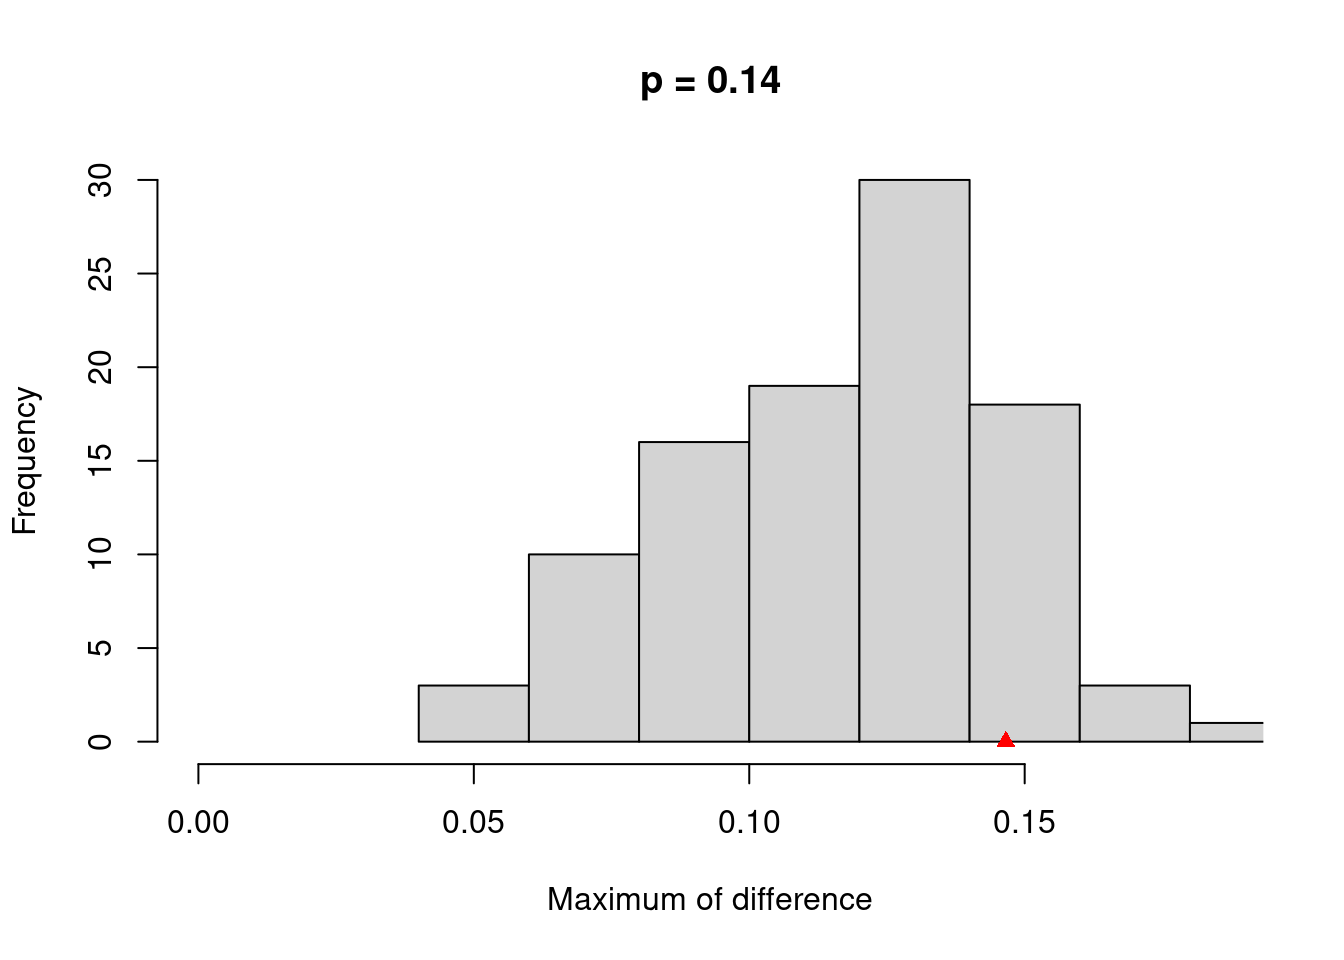
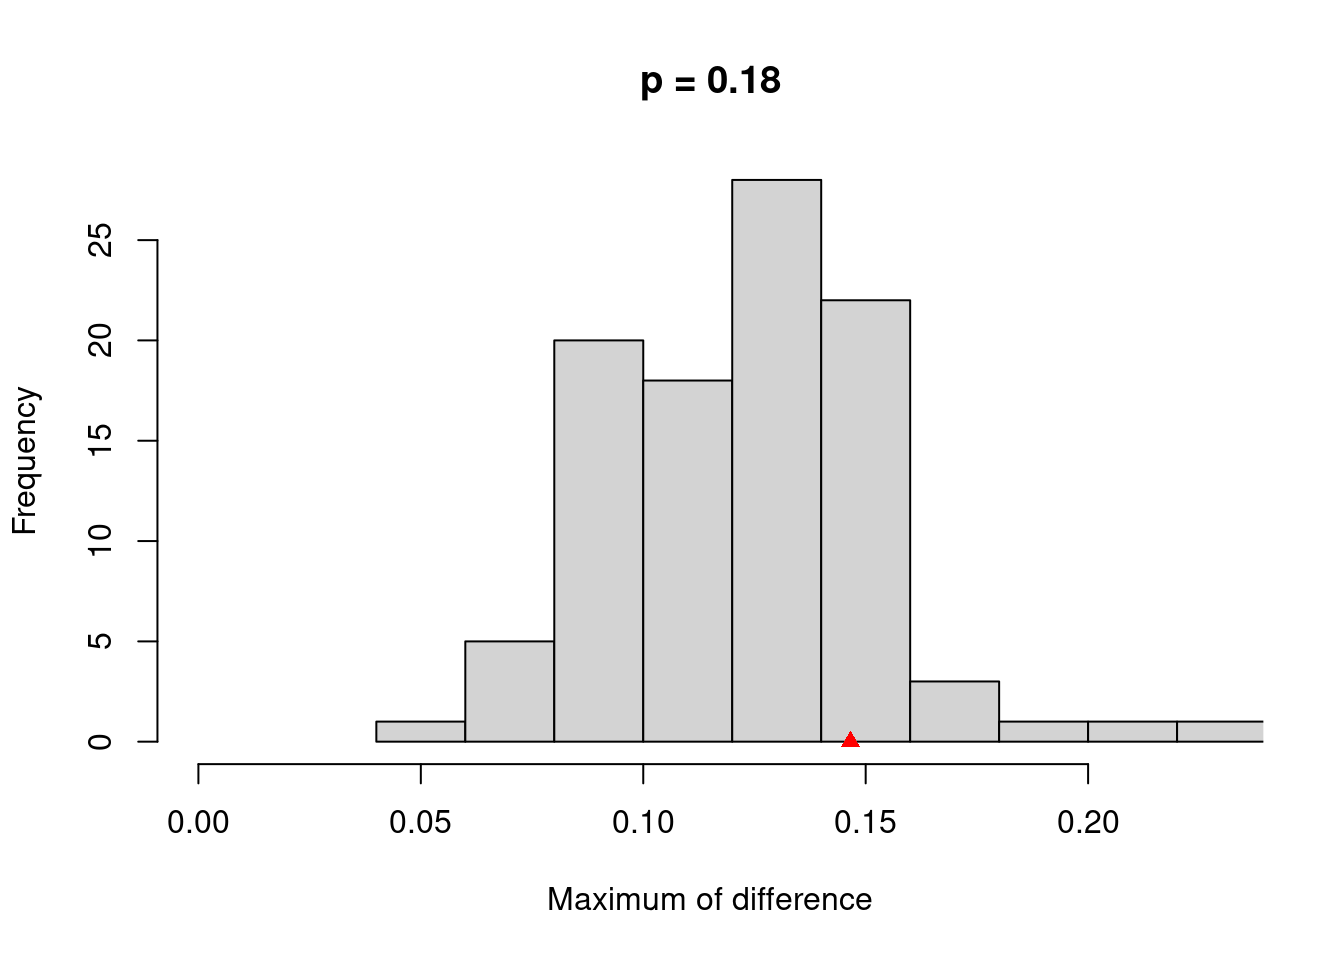
update

diff --git a/docs/how-to-psychological-network1.html b/docs/how-to-psychological-network1.html
@@ -553,16 +553,16 @@ data_gad &lt;- data %&gt;%
 <pre><code>## # A tibble: 42 × 17
 ##    type  id    node1 node2  sample   mean      sd CIlower CIupper   q2.5   q97.5
 ##    &lt;chr&gt; &lt;chr&gt; &lt;chr&gt; &lt;chr&gt;   &lt;dbl&gt;  &lt;dbl&gt;   &lt;dbl&gt;   &lt;dbl&gt;   &lt;dbl&gt;  &lt;dbl&gt;   &lt;dbl&gt;
-##  1 betw… gad7a gad7a &quot;&quot;     2      1.52   1.18    -0.358   4.36   0       4     
-##  2 betw… gad7b gad7b &quot;&quot;     2      3.10   1.86    -1.73    5.73   2       8     
-##  3 betw… gad7c gad7c &quot;&quot;     0      1.72   2.45    -4.90    4.90   0       8     
-##  4 betw… gad7d gad7d &quot;&quot;    12      9.39   2.19     7.63   16.4    4      12     
-##  5 betw… gad7e gad7e &quot;&quot;     0      0.978  1.89    -3.77    3.77   0       6     
-##  6 betw… gad7f gad7f &quot;&quot;     0      0.393  0.828   -1.66    1.66   0       2     
-##  7 betw… gad7g gad7g &quot;&quot;     0      1.12   1.60    -3.19    3.19   0       4     
-##  8 clos… gad7a gad7a &quot;&quot;     0.0252 0.0256 0.00149  0.0222  0.0282 0.0226  0.0284
-##  9 clos… gad7b gad7b &quot;&quot;     0.0260 0.0262 0.00165  0.0227  0.0293 0.0231  0.0295
-## 10 clos… gad7c gad7c &quot;&quot;     0.0252 0.0256 0.00175  0.0217  0.0287 0.0222  0.0289
+##  1 betw… gad7a gad7a &quot;&quot;     2      1.53   1.19    -0.374   4.37   0       4     
+##  2 betw… gad7b gad7b &quot;&quot;     2      3.13   1.89    -1.79    5.79   2       8     
+##  3 betw… gad7c gad7c &quot;&quot;     0      1.70   2.41    -4.81    4.81   0       8     
+##  4 betw… gad7d gad7d &quot;&quot;    12      9.36   2.28     7.45   16.6    4      12     
+##  5 betw… gad7e gad7e &quot;&quot;     0      1.01   1.86    -3.72    3.72   0       6     
+##  6 betw… gad7f gad7f &quot;&quot;     0      0.378  0.811   -1.62    1.62   0       2     
+##  7 betw… gad7g gad7g &quot;&quot;     0      1.10   1.55    -3.11    3.11   0       4     
+##  8 clos… gad7a gad7a &quot;&quot;     0.0252 0.0256 0.00149  0.0222  0.0282 0.0226  0.0285
+##  9 clos… gad7b gad7b &quot;&quot;     0.0260 0.0262 0.00162  0.0228  0.0293 0.0232  0.0295
+## 10 clos… gad7c gad7c &quot;&quot;     0.0252 0.0256 0.00179  0.0216  0.0287 0.0220  0.0291
 ## # … with 32 more rows, and 6 more variables: q2.5_non0 &lt;dbl&gt;, mean_non0 &lt;dbl&gt;,
 ## #   q97.5_non0 &lt;dbl&gt;, var_non0 &lt;dbl&gt;, sd_non0 &lt;dbl&gt;, prop0 &lt;dbl&gt;</code></pre>
 <p>それでは，プロットしてみましょう。サンプルサイズが大きいためか，95%信頼区間の幅が狭いですね。</p>
@@ -590,15 +590,15 @@ data_gad &lt;- data %&gt;%
 ## 
 ## Sampling levels tested:
 ##    nPerson Drop%   n
-## 1      851  75.0 255
-## 2     1116  67.2 289
-## 3     1381  59.4 266
-## 4     1645  51.7 222
-## 5     1910  43.9 238
-## 6     2175  36.1 239
-## 7     2440  28.3 206
-## 8     2704  20.6 267
-## 9     2969  12.8 254
+## 1      851  75.0 243
+## 2     1116  67.2 243
+## 3     1381  59.4 270
+## 4     1645  51.7 252
+## 5     1910  43.9 253
+## 6     2175  36.1 269
+## 7     2440  28.3 247
+## 8     2704  20.6 230
+## 9     2969  12.8 229
 ## 10    3234   5.0 264
 ## 
 ## Maximum drop proportions to retain correlation of 0.7 in at least 95% of the samples:
@@ -606,8 +606,8 @@ data_gad &lt;- data %&gt;%
 ## betweenness: 0.361 
 ##   - For more accuracy, run bootnet(..., caseMin = 0.283, caseMax = 0.439) 
 ## 
-## closeness: 0.672 
-##   - For more accuracy, run bootnet(..., caseMin = 0.594, caseMax = 0.75) 
+## closeness: 0.594 
+##   - For more accuracy, run bootnet(..., caseMin = 0.517, caseMax = 0.672) 
 ## 
 ## strength: 0.75 (CS-coefficient is highest level tested)
 ##   - For more accuracy, run bootnet(..., caseMin = 0.672, caseMax = 1) 
@@ -622,7 +622,7 @@ data_gad &lt;- data %&gt;%
 <pre><code>## # A tibble: 1 × 6
 ##   id1   id2   measure   lower  upper significant
 ##   &lt;chr&gt; &lt;chr&gt; &lt;chr&gt;     &lt;dbl&gt;  &lt;dbl&gt; &lt;lgl&gt;      
-## 1 gad7b gad7f strength -0.582 -0.400 TRUE</code></pre>
+## 1 gad7b gad7f strength -0.592 -0.407 TRUE</code></pre>
 <p>エッジ間の差の検定結果をプロットします。それぞれのエッジ間で有意な差がある場合は黒く塗りつぶされ，有意ではない場合は灰色に塗りつぶされます。</p>
 <pre class="r"><code>plot(accuracy_edge, &quot;edge&quot;, plot = &quot;difference&quot;, onlyNonZero = TRUE, order = &quot;sample&quot;)  </code></pre>
 <p><img src="how-to-psychological-network1_files/figure-html/unnamed-chunk-16-1.png" width="672" /></p>
@@ -702,24 +702,24 @@ bridge_centrality &lt;- bridge(plot_res_bridge,
 ## 
 ## Sampling levels tested:
 ##    nPerson Drop%   n
-## 1      851  75.0 243
-## 2     1116  67.2 267
-## 3     1381  59.4 288
-## 4     1645  51.7 232
-## 5     1910  43.9 257
-## 6     2175  36.1 226
-## 7     2440  28.3 278
-## 8     2704  20.6 246
-## 9     2969  12.8 228
-## 10    3234   5.0 235
+## 1      851  75.0 266
+## 2     1116  67.2 252
+## 3     1381  59.4 247
+## 4     1645  51.7 247
+## 5     1910  43.9 250
+## 6     2175  36.1 225
+## 7     2440  28.3 269
+## 8     2704  20.6 251
+## 9     2969  12.8 235
+## 10    3234   5.0 258
 ## 
 ## Maximum drop proportions to retain correlation of 0.7 in at least 95% of the samples:
 ## 
-## bridgeBetweenness: 0.594 
-##   - For more accuracy, run bootnet(..., caseMin = 0.517, caseMax = 0.672) 
+## bridgeBetweenness: 0.517 
+##   - For more accuracy, run bootnet(..., caseMin = 0.439, caseMax = 0.594) 
 ## 
-## bridgeCloseness: 0.128 
-##   - For more accuracy, run bootnet(..., caseMin = 0.05, caseMax = 0.206) 
+## bridgeCloseness: 0.206 
+##   - For more accuracy, run bootnet(..., caseMin = 0.128, caseMax = 0.283) 
 ## 
 ## bridgeStrength: 0.75 (CS-coefficient is highest level tested)
 ##   - For more accuracy, run bootnet(..., caseMin = 0.672, caseMax = 1) 
@@ -765,210 +765,7 @@ plot(network_female, layout = L, title = &quot;Females&quot;, maximum = Max)</co
 <h3>ネットワーク比較テスト</h3>
 <p>NetworkComparisonTestパッケージのNCT関数を使って， permutationベースの仮説検定を行います。NCTの引数では各データを引数にいれるのですが，NCTには“cor_auto”を使って自動で順序尺度を処理する機能はないので，bootnetで推定したネットワークをいれます（データでも推定したネットワークもどちらも可能です）。test.edgesとtest.centralityをTRUEにしてエッジと中心性指標を検定しましょう。</p>
 <pre class="r"><code>library(NetworkComparisonTest)
-res_nct &lt;- NCT(network_male, network_female, test.edges=TRUE, test.centrality=TRUE)</code></pre>
-<pre><code>## 
-  |                                                                            
-  |                                                                      |   0%
-  |                                                                            
-  |=                                                                     |   1%
-  |                                                                            
-  |=                                                                     |   2%
-  |                                                                            
-  |==                                                                    |   3%
-  |                                                                            
-  |===                                                                   |   4%
-  |                                                                            
-  |====                                                                  |   5%
-  |                                                                            
-  |====                                                                  |   6%
-  |                                                                            
-  |=====                                                                 |   7%
-  |                                                                            
-  |======                                                                |   8%
-  |                                                                            
-  |======                                                                |   9%
-  |                                                                            
-  |=======                                                               |  10%
-  |                                                                            
-  |========                                                              |  11%
-  |                                                                            
-  |========                                                              |  12%
-  |                                                                            
-  |=========                                                             |  13%
-  |                                                                            
-  |==========                                                            |  14%
-  |                                                                            
-  |==========                                                            |  15%
-  |                                                                            
-  |===========                                                           |  16%
-  |                                                                            
-  |============                                                          |  17%
-  |                                                                            
-  |=============                                                         |  18%
-  |                                                                            
-  |=============                                                         |  19%
-  |                                                                            
-  |==============                                                        |  20%
-  |                                                                            
-  |===============                                                       |  21%
-  |                                                                            
-  |===============                                                       |  22%
-  |                                                                            
-  |================                                                      |  23%
-  |                                                                            
-  |=================                                                     |  24%
-  |                                                                            
-  |==================                                                    |  25%
-  |                                                                            
-  |==================                                                    |  26%
-  |                                                                            
-  |===================                                                   |  27%
-  |                                                                            
-  |====================                                                  |  28%
-  |                                                                            
-  |====================                                                  |  29%
-  |                                                                            
-  |=====================                                                 |  30%
-  |                                                                            
-  |======================                                                |  31%
-  |                                                                            
-  |======================                                                |  32%
-  |                                                                            
-  |=======================                                               |  33%
-  |                                                                            
-  |========================                                              |  34%
-  |                                                                            
-  |========================                                              |  35%
-  |                                                                            
-  |=========================                                             |  36%
-  |                                                                            
-  |==========================                                            |  37%
-  |                                                                            
-  |===========================                                           |  38%
-  |                                                                            
-  |===========================                                           |  39%
-  |                                                                            
-  |============================                                          |  40%
-  |                                                                            
-  |=============================                                         |  41%
-  |                                                                            
-  |=============================                                         |  42%
-  |                                                                            
-  |==============================                                        |  43%
-  |                                                                            
-  |===============================                                       |  44%
-  |                                                                            
-  |================================                                      |  45%
-  |                                                                            
-  |================================                                      |  46%
-  |                                                                            
-  |=================================                                     |  47%
-  |                                                                            
-  |==================================                                    |  48%
-  |                                                                            
-  |==================================                                    |  49%
-  |                                                                            
-  |===================================                                   |  50%
-  |                                                                            
-  |====================================                                  |  51%
-  |                                                                            
-  |====================================                                  |  52%
-  |                                                                            
-  |=====================================                                 |  53%
-  |                                                                            
-  |======================================                                |  54%
-  |                                                                            
-  |======================================                                |  55%
-  |                                                                            
-  |=======================================                               |  56%
-  |                                                                            
-  |========================================                              |  57%
-  |                                                                            
-  |=========================================                             |  58%
-  |                                                                            
-  |=========================================                             |  59%
-  |                                                                            
-  |==========================================                            |  60%
-  |                                                                            
-  |===========================================                           |  61%
-  |                                                                            
-  |===========================================                           |  62%
-  |                                                                            
-  |============================================                          |  63%
-  |                                                                            
-  |=============================================                         |  64%
-  |                                                                            
-  |==============================================                        |  65%
-  |                                                                            
-  |==============================================                        |  66%
-  |                                                                            
-  |===============================================                       |  67%
-  |                                                                            
-  |================================================                      |  68%
-  |                                                                            
-  |================================================                      |  69%
-  |                                                                            
-  |=================================================                     |  70%
-  |                                                                            
-  |==================================================                    |  71%
-  |                                                                            
-  |==================================================                    |  72%
-  |                                                                            
-  |===================================================                   |  73%
-  |                                                                            
-  |====================================================                  |  74%
-  |                                                                            
-  |====================================================                  |  75%
-  |                                                                            
-  |=====================================================                 |  76%
-  |                                                                            
-  |======================================================                |  77%
-  |                                                                            
-  |=======================================================               |  78%
-  |                                                                            
-  |=======================================================               |  79%
-  |                                                                            
-  |========================================================              |  80%
-  |                                                                            
-  |=========================================================             |  81%
-  |                                                                            
-  |=========================================================             |  82%
-  |                                                                            
-  |==========================================================            |  83%
-  |                                                                            
-  |===========================================================           |  84%
-  |                                                                            
-  |============================================================          |  85%
-  |                                                                            
-  |============================================================          |  86%
-  |                                                                            
-  |=============================================================         |  87%
-  |                                                                            
-  |==============================================================        |  88%
-  |                                                                            
-  |==============================================================        |  89%
-  |                                                                            
-  |===============================================================       |  90%
-  |                                                                            
-  |================================================================      |  91%
-  |                                                                            
-  |================================================================      |  92%
-  |                                                                            
-  |=================================================================     |  93%
-  |                                                                            
-  |==================================================================    |  94%
-  |                                                                            
-  |==================================================================    |  95%
-  |                                                                            
-  |===================================================================   |  96%
-  |                                                                            
-  |====================================================================  |  97%
-  |                                                                            
-  |===================================================================== |  98%
-  |                                                                            
-  |===================================================================== |  99%
-  |                                                                            
-  |======================================================================| 100%</code></pre>
+res_nct &lt;- NCT(network_male, network_female, progressbar=FALSE, test.edges=TRUE, test.centrality=TRUE)</code></pre>
 <p>結果をプロットしてみます。what=“network”で，ネットワーク構造の差異の検定結果が示されます。what=“strength” で，全体のStrengthの差異の検定結果が示されます。what=“edge”を指定すれば，個々のエッジの差異の検定結果が示されます。</p>
 <pre class="r"><code>plot(res_nct, what=&quot;network&quot;)</code></pre>
 <p><img src="how-to-psychological-network1_files/figure-html/unnamed-chunk-29-1.png" width="672" /></p>
